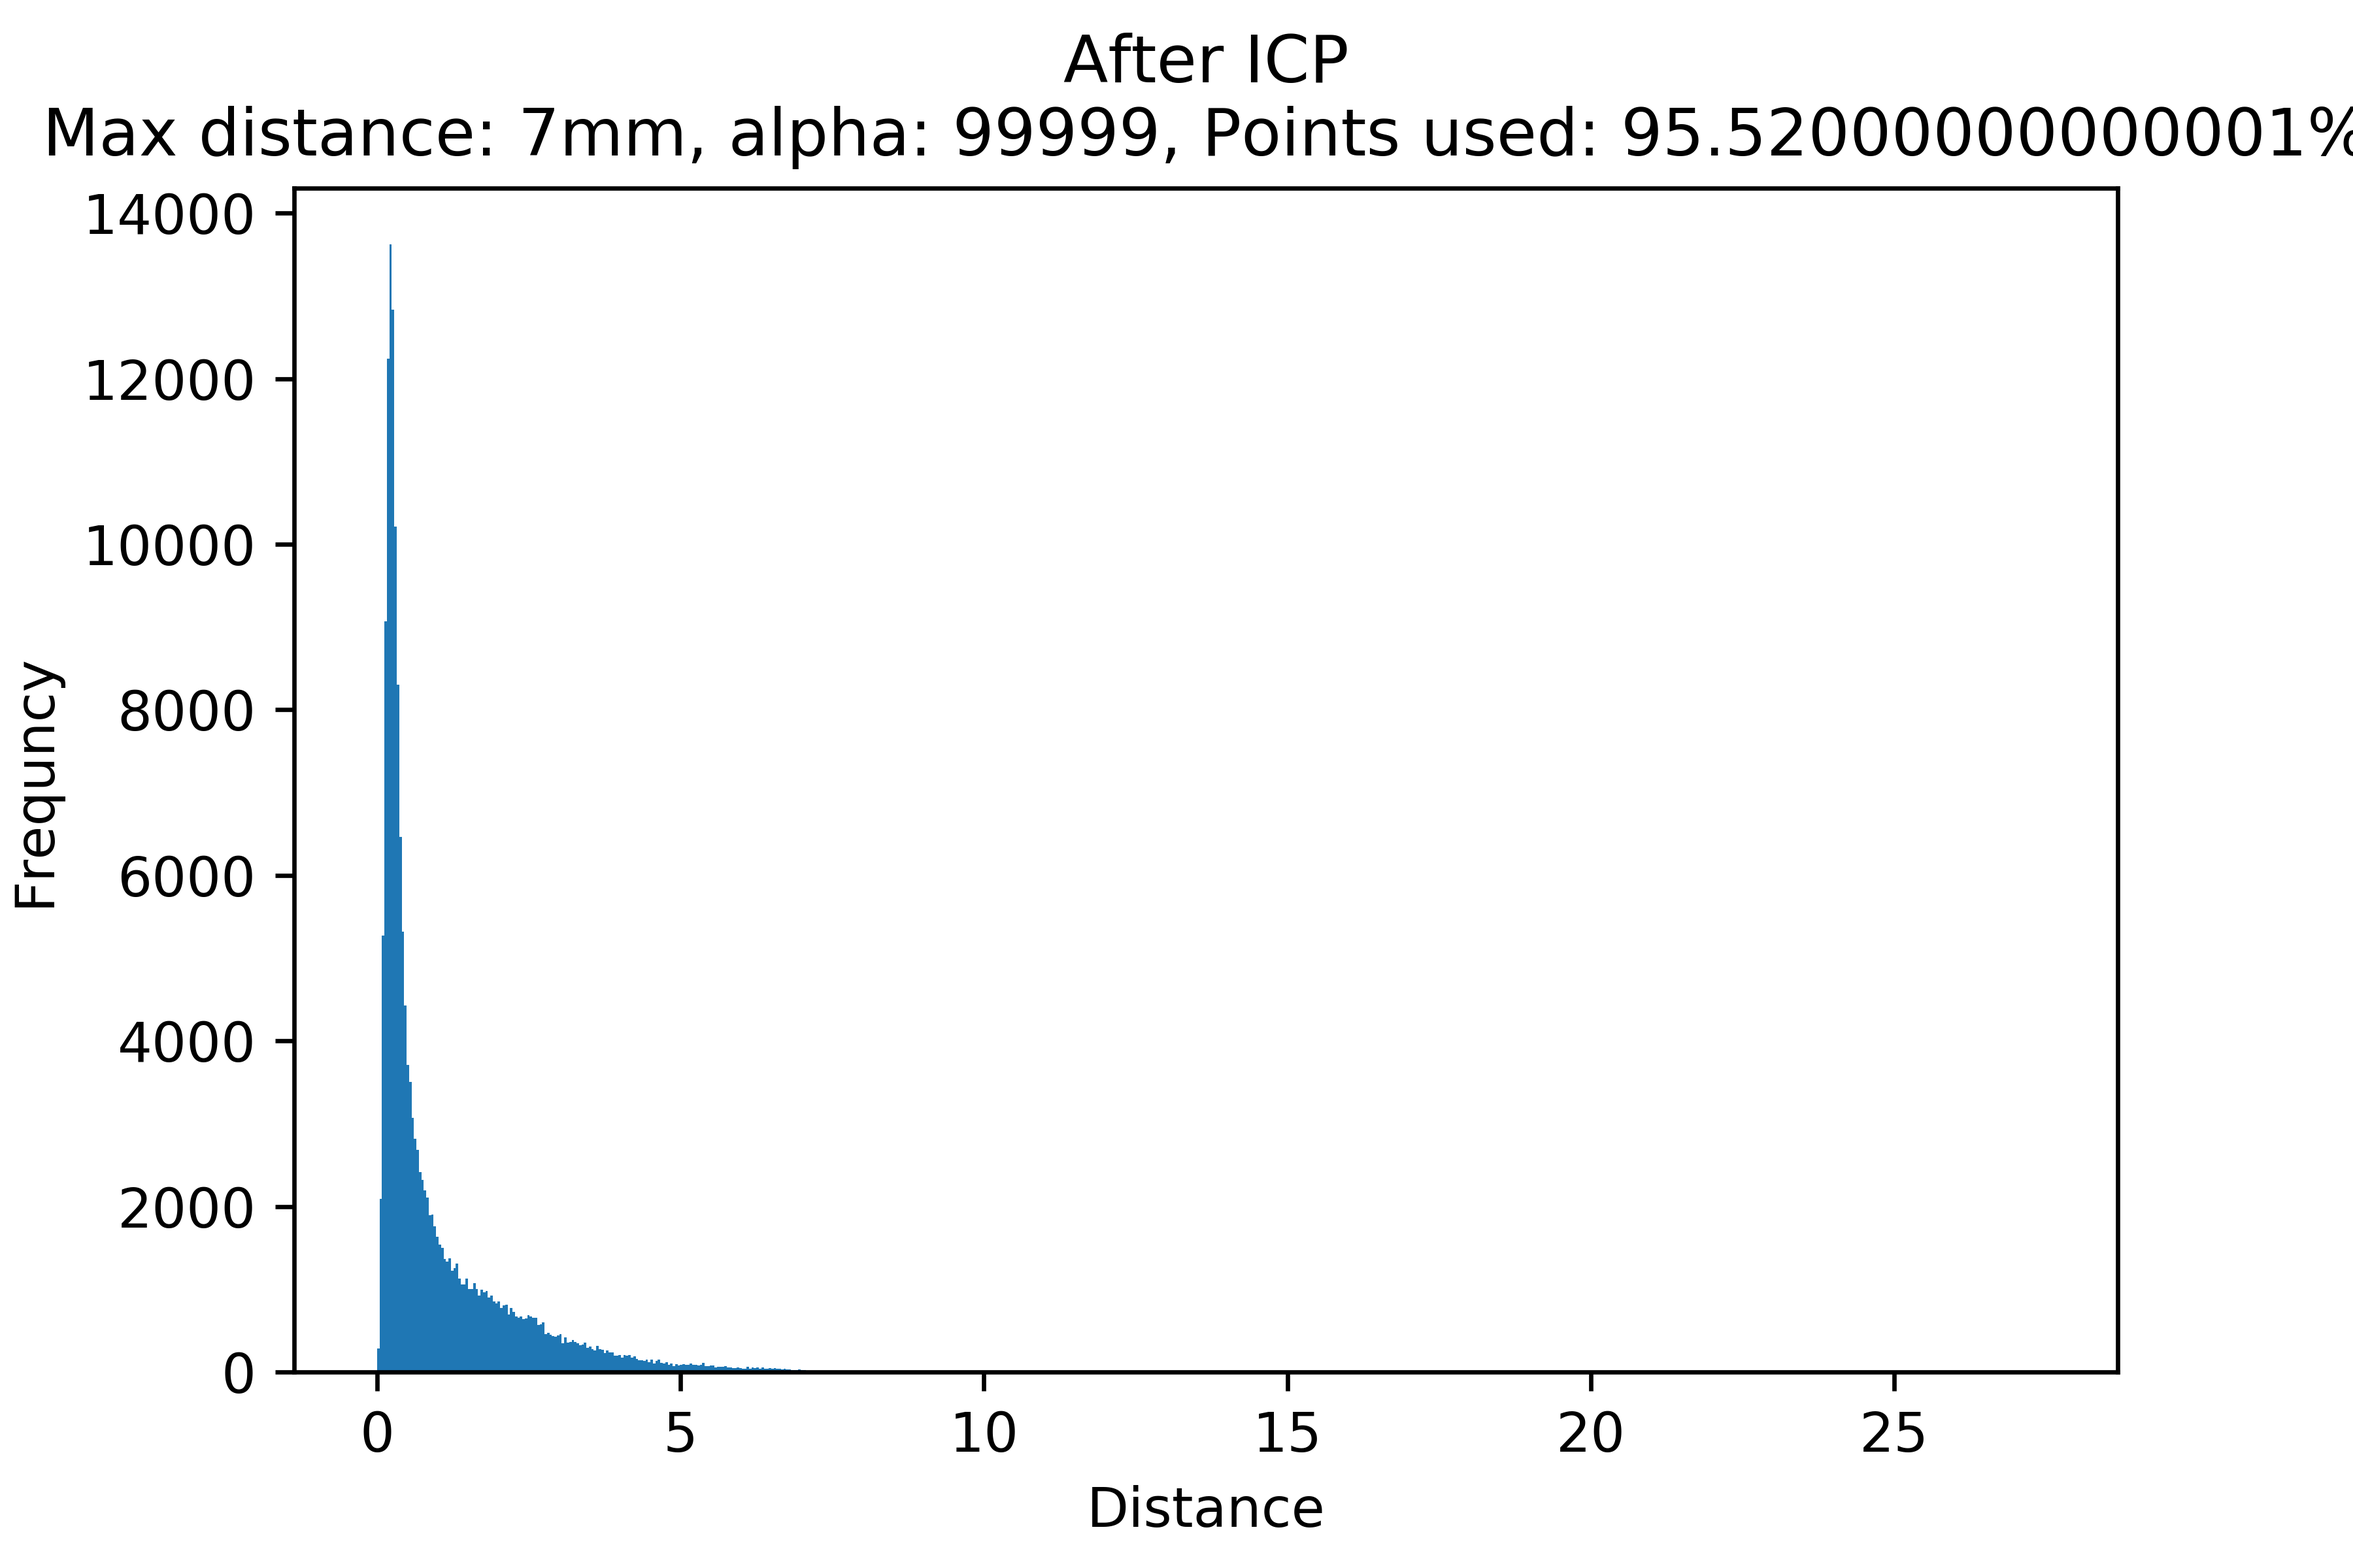
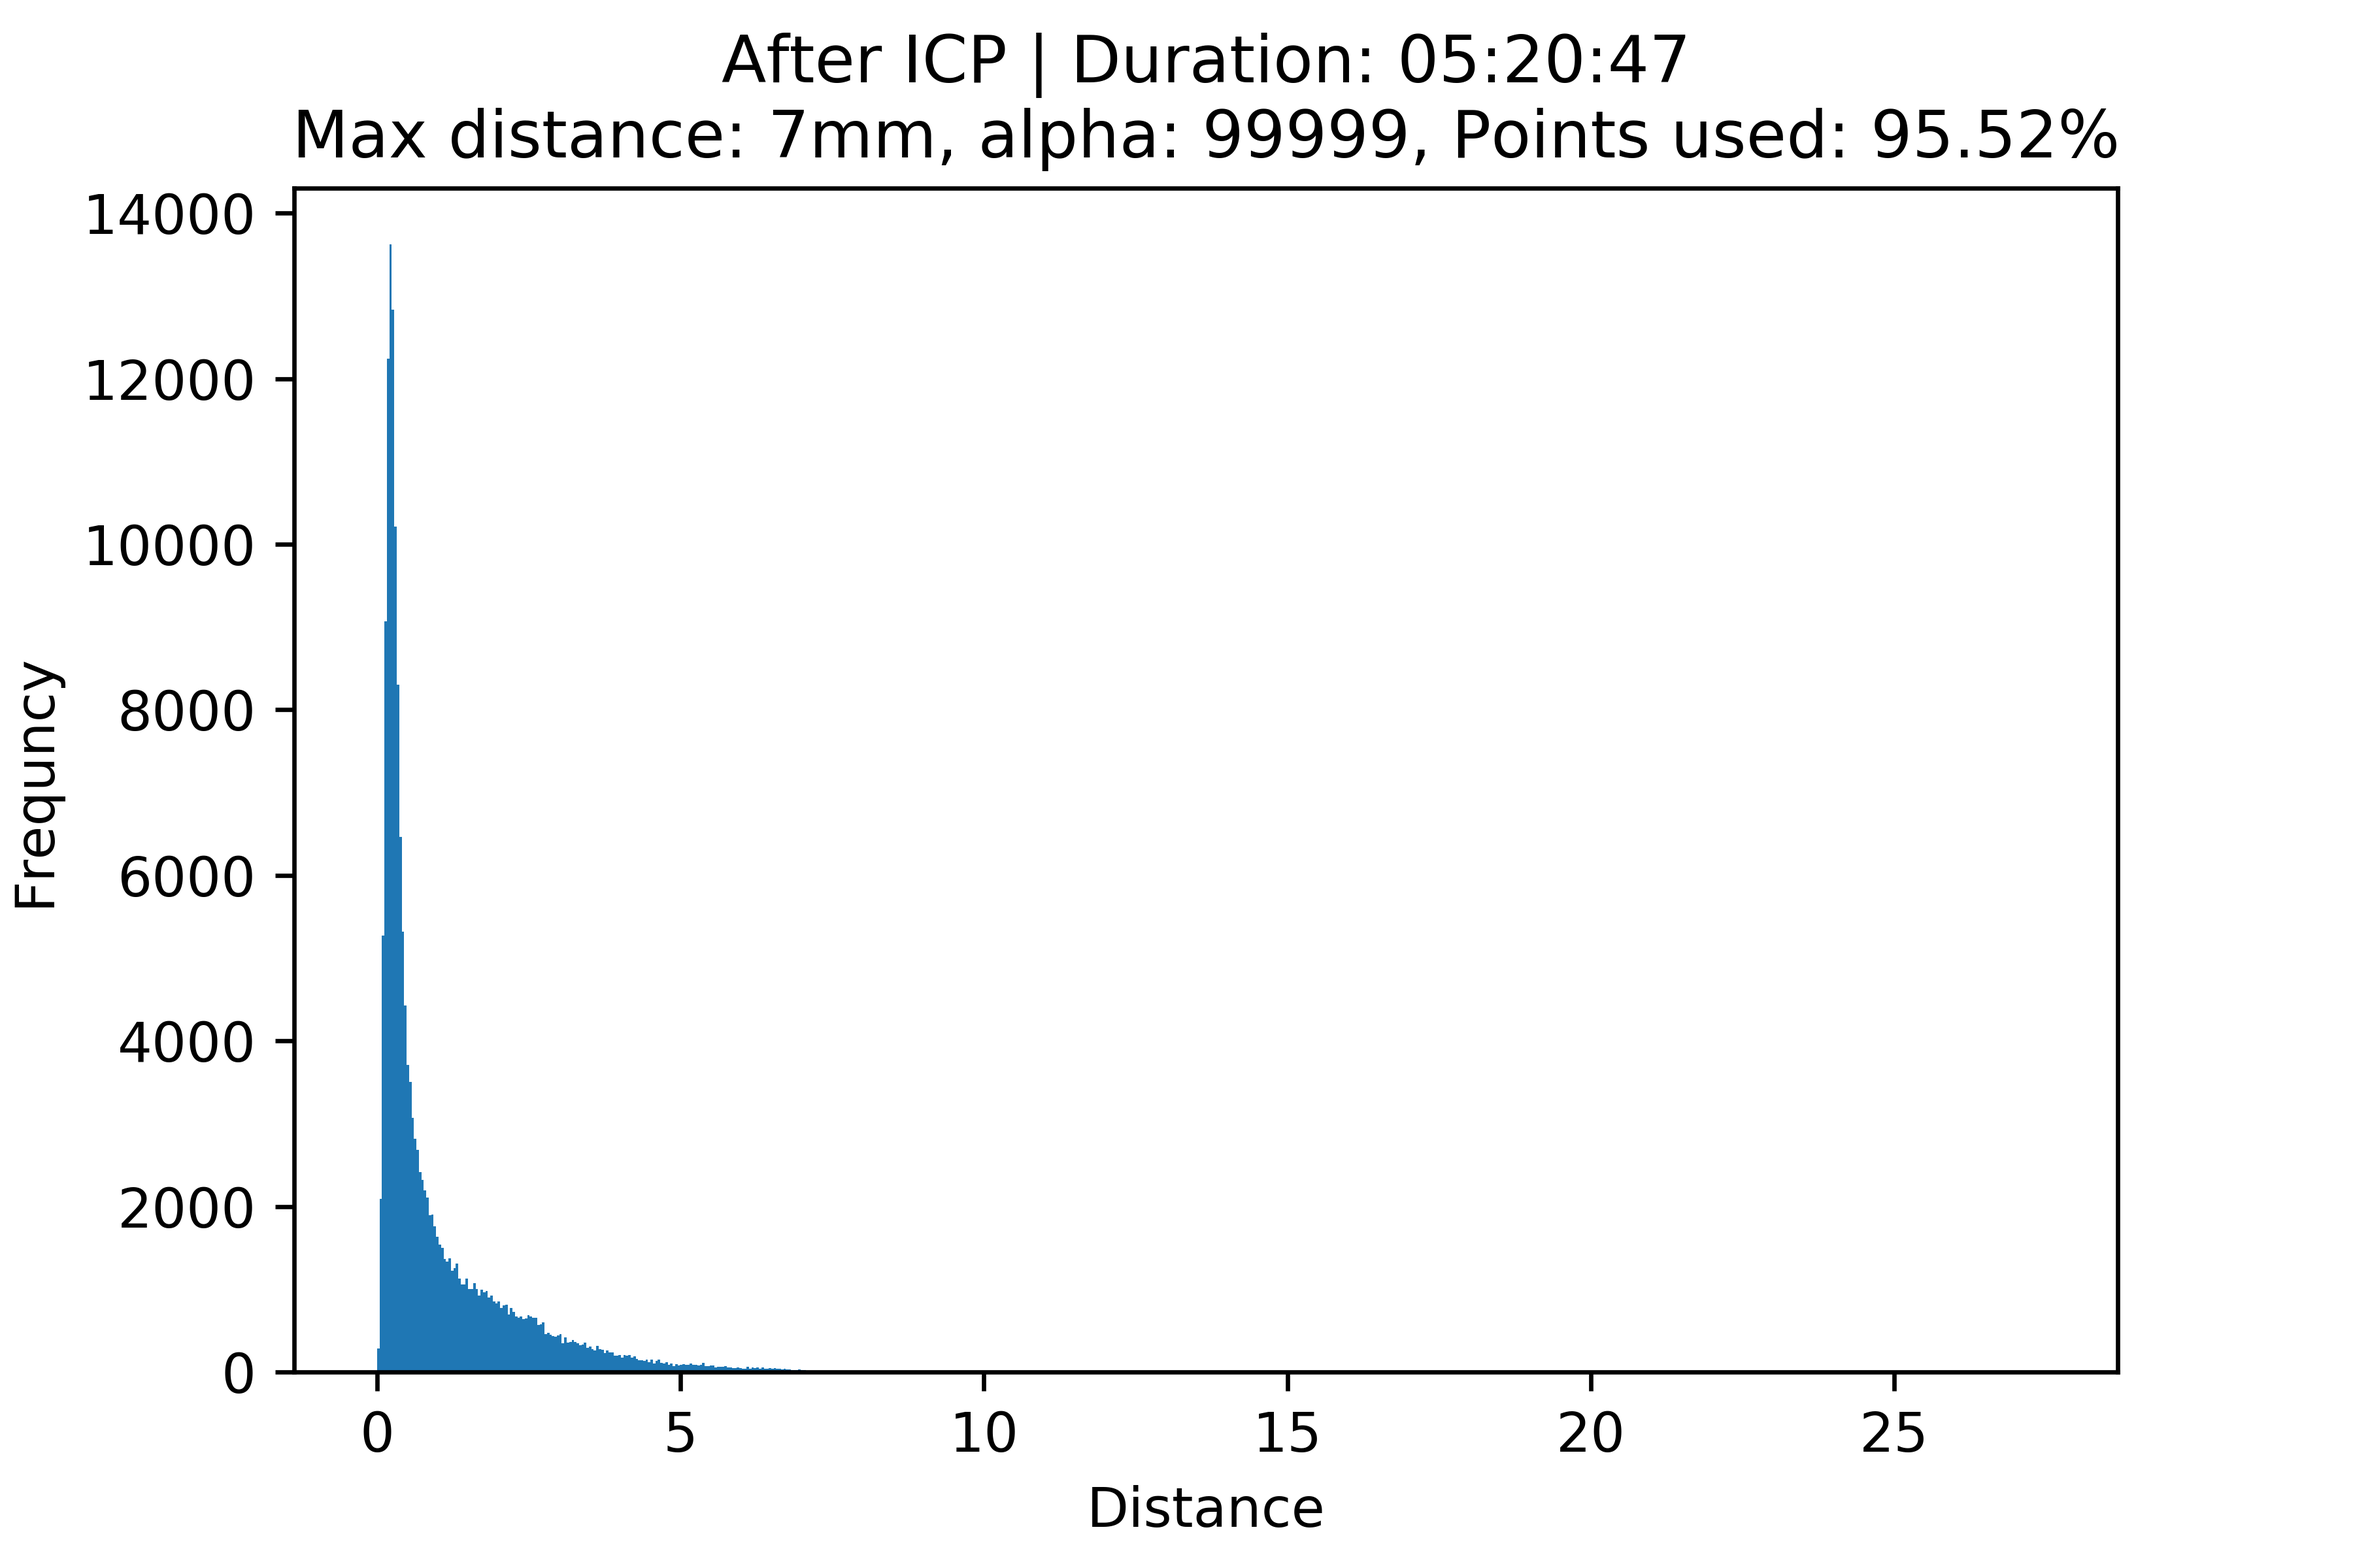
backup

Changed region(s): [[0.0, 0.0, 1.0, 0.125]]

diff --git a/test/new_plan.py b/test/new_plan.py
@@ -13,15 +13,15 @@ from src.tractography.io import read_ply
 from src.tractography.Utils import pca_transform_norm
 from src.tractography.viz import draw_bundles
 
-num = 3
+num = 4
 
-static = read_ply('data/197348/m_ex_cc-body-left_shore.ply') #02
+static = read_ply('data/150019/m_ex_cst-right_shore.ply') #02
 #draw_bundles([static])
-# static = read_ply('data/132118/m_ex_atr-left_shore.ply') 
-moving = read_ply('data/150019/m_ex_cc-body-left_shore.ply') #00
-# moving = read_ply('data/150019/m_ex_atr-left_shore.ply') #01
+# static = read_ply('data/132118/m_ex_cing-left_shore.ply') 
+moving = read_ply('data/150019/m_ex_cst-left_shore.ply') #00
+# moving = read_ply('data/150019/m_ex_cst-left_shore.ply') #01
 draw_bundles([moving,static],[[0,0,1],[1,0,0]])
-
+              
 ''' Get points cloud '''
 con_static = np.concatenate(static)
 con_moving = np.concatenate(moving)
@@ -58,7 +58,7 @@ plt.savefig('new_plan/{:02d}1_hist_PCA.png'.format(num), dpi=600)
 # 3 | 999
 # 2 | 999
 length = len(con_moving)
-threshold=7
+threshold=10
 alpha = 99999
 lamb = 1
 
@@ -140,13 +140,13 @@ for track in moving:
     new_moving.append(new_con_mov[i:end])
     #new_moving.append([i,end])
     i = end
+    
 # bins='auto'
-
 ''' Get the threshold '''
 plt.hist(kdtree.query(new_con_mov,k=1)[0], bins='auto',range=(0,max_range))
-plt.title("After ICP\nMax distance: "+
+plt.title("After ICP | Duration: 05:20:47\nMax distance: "+
           str(threshold)+"mm, alpha: "+str(alpha)+", Points used: "+
-          str(np.round(count[1][1]/count[1].sum(),4)*100)+"%")
+          str(np.round(count[1][1]/count[1].sum()*100,2))+"%")
 plt.ylabel("Frequncy")
 plt.xlabel("Distance")
 plt.savefig('new_plan/{:02d}2_hist_ICP.png'.format(num), dpi=600)

diff --git a/test/test03.py b/test/test03.py
@@ -5,20 +5,17 @@ Created on Sat Jan 19 23:53:06 2019
 
 @author: mohammed
 """
-length = con_moving.shape[0]-len(moving)
-data = np.tile([-1,1],length)
-row = np.arange(length).repeat(2)
+from os import listdir  # , mkdir
+from os.path import isfile  # , isdir
 
-col=[]
-j=0
-for track in moving:
-    end = j+track.shape[0]
-    col.append(np.arange(j,end).repeat(2)[1:-1])
-    j = end
-col = np.concatenate(col)
+from src.tractography.io import read_ply
+from src.tractography.viz import draw_bundles
 
-M = sparse.csr_matrix((data,(row,col)),(length,con_moving.shape[0]))
 
-test = 3*sparse.csr_matrix(([1,2,3,4],([0,1,2,2],[0,1,2,3])),(3,4))
-test = 3*test
-print(test.toarray())
+data_path = 'data/132118/'
+files = [data_path + f for f in listdir(data_path) if isfile(data_path + f) and f.endswith('.ply')]
+
+for i in files:
+    print(i)
+
+#static = read_ply('data/150019/m_ex_cst-right_shore.ply')
